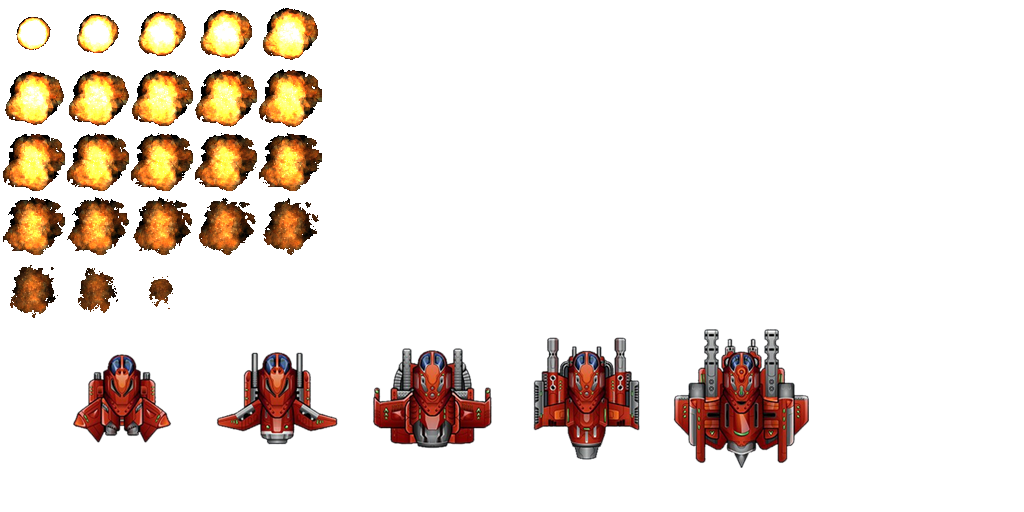
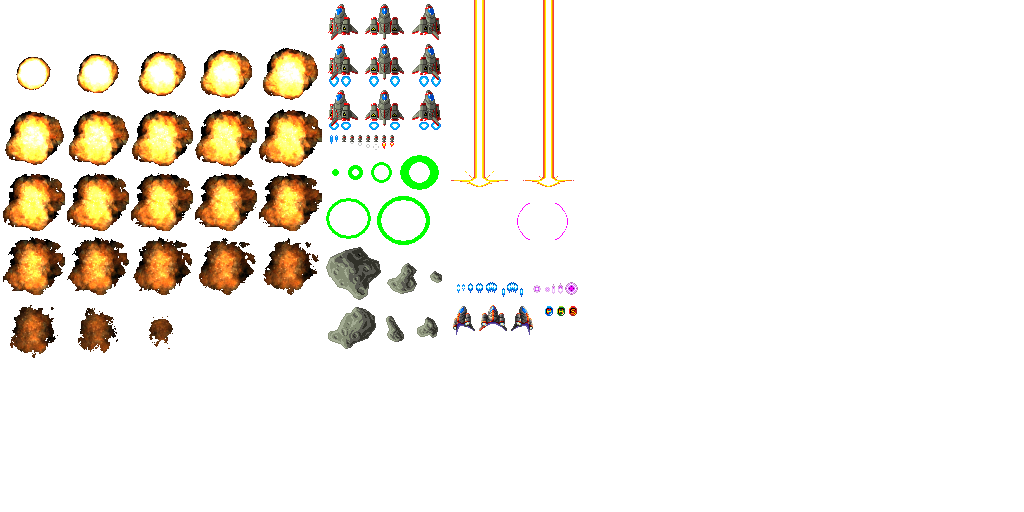
Player Animation Update

diff --git a/core/src/com/mygdx/lifeisagame/Player/Player.java b/core/src/com/mygdx/lifeisagame/Player/Player.java
@@ -20,7 +20,6 @@ public class Player extends Sprite{
 	//Properties
 	private int damage;
 	private int hitpoints; 
-	private int level;
 	private boolean shooting;
 	private boolean damaged;
 	
@@ -32,11 +31,20 @@ public class Player extends Sprite{
 	private Vector2 movingVelocity;
 	
 	//Texture
-	TextureRegion ship_level1;
-	TextureRegion ship_level2;
-	TextureRegion ship_level3;
-	TextureRegion ship_level4;
-	TextureRegion ship_level5;
+	TextureRegion swing_left;
+	TextureRegion boost_left;
+	TextureRegion reverse_left;
+	TextureRegion stop;
+	TextureRegion boost;
+	TextureRegion reverse;
+	TextureRegion swing_right;
+	TextureRegion boost_right;
+	TextureRegion reverse_right;
+	private boolean toRight;
+	private boolean toLeft;
+	private boolean boosting;
+	private boolean reversing;
+	
 	Animation shipDestroyed;
 	
 	//For gameCam glitch in screen
@@ -57,22 +65,25 @@ public class Player extends Sprite{
 	
 	//Animation
 	//State Player
-	public enum State{PLAYER_LEVEL1, PLAYER_LEVEL2, PLAYER_LEVEL3, PLAYER_LEVEL4, PLAYER_LEVEL5, DESTROYED}
+	public enum State{SWING_LEFT, BOOST_LEFT, REVERSE_LEFT, STOP, BOOST, REVERSE, SWING_RIGHT, BOOST_RIGHT, REVERSE_RIGHT, DESTROYED}
 	public State currentState;
 	public State previousState;
 	private float stateTimer;
 	
 	public Player(World world, Vector2 position){
-		super(new AtlasRegion(new TextureAtlas("Player/Player.pack").findRegion("Player")));
+		super(new AtlasRegion(new TextureAtlas("Player/Player.pack").findRegion("Alternative Player")));
 		this.world = world;
 		this.position = position;
 		
 		//Initialization
-		level = 1;
-		
 		camGlitched = false;
 		shooting = false;
 		damaged = false;
+		
+		toRight = false;
+		toLeft = false;
+		boosting = false;
+		reversing = false;
 		
 		moving = false;
 		movingTimer = 0;
@@ -110,16 +121,21 @@ public class Player extends Sprite{
 	}
 	
 	public void generateAnimation() {
-		ship_level1 = new TextureRegion(getTexture(), 71, 351, 102, 96);
-		ship_level2 = new TextureRegion(getTexture(), 215, 350, 123, 97);
-		ship_level3 = new TextureRegion(getTexture(), 369, 343, 126, 108);
-		ship_level4 = new TextureRegion(getTexture(), 532, 335, 110, 128);
-		ship_level5 = new TextureRegion(getTexture(), 672, 327, 140, 143);
+		swing_left = new TextureRegion(getTexture(), 323, 1, 38, 41);
+		boost_left = new TextureRegion(getTexture(), 324, 43, 37, 46);
+		reverse_left = new TextureRegion(getTexture(), 326, 89, 35, 43);
+		stop = new TextureRegion(getTexture(), 362, 0, 46, 41);
+		boost = new TextureRegion(getTexture(), 363, 42, 44, 47);
+		reverse = new TextureRegion(getTexture(), 362, 89, 46, 43);
+		swing_right = new TextureRegion(getTexture(), 409, 0, 38, 41);
+		boost_right = new TextureRegion(getTexture(), 410, 42, 36, 47);
+		reverse_right = new TextureRegion(getTexture(), 409, 88, 37, 44);
+		
 		//65, 29
 		Array<TextureRegion> frames = new Array<TextureRegion>();
 		for(int i=0; i<9; i++) {
 			for(int j=0; j<9; j++) {
-				frames.add(new TextureRegion(getTexture(), i*64, j*64, 64, 64));
+				frames.add(new TextureRegion(getTexture(), i*64, j*64 + 40, 64, 64));
 			}
 		}
 		shipDestroyed = new Animation(0.1f, frames);
@@ -134,27 +150,39 @@ public class Player extends Sprite{
 		case DESTROYED:
 			region = (TextureRegion) shipDestroyed.getKeyFrame(stateTimer, true);
 			break;
-		case PLAYER_LEVEL1:
-			region = ship_level1;
+		case SWING_LEFT:
+			region = swing_left;
 			break;
-		case PLAYER_LEVEL2:
-			region = ship_level2;
+		case BOOST_LEFT:
+			region = boost_left;
 			break;
-		case PLAYER_LEVEL3:
-			region = ship_level3;
+		case REVERSE_LEFT:
+			region = reverse_left;
 			break;
-		case PLAYER_LEVEL4:
-			region = ship_level4;
+		case STOP:
+			region = stop;
 			break;
-		case PLAYER_LEVEL5:
-			region = ship_level5;
+		case BOOST:
+			region = boost;
+			break;
+		case REVERSE:
+			region = reverse;
+			break;
+		case SWING_RIGHT:
+			region = swing_right;
+			break;
+		case BOOST_RIGHT:
+			region = boost_right;
+			break;
+		case REVERSE_RIGHT:
+			region = reverse_right;
 			break;
 			default:
-				region = ship_level1;
+				region = stop;
 				break;
 		}
 		
-		setSize((float) 0.9,(float) 0.9);
+		setSize((float) 1.8,(float) 1.8);
 		stateTimer = currentState == previousState ? stateTimer + dt : 0;
 		previousState = currentState;
 		return region;
@@ -164,24 +192,35 @@ public class Player extends Sprite{
 		if(hitpoints <= 0)
 			return State.DESTROYED;
 		
-		if(level == 1)
-			return State.PLAYER_LEVEL1;
-		else if(level == 2)
-			return State.PLAYER_LEVEL2;
-		else if(level == 3)
-			return State.PLAYER_LEVEL3;
-		else if(level == 4)
-			return State.PLAYER_LEVEL4;
-		else
-			return State.PLAYER_LEVEL5;
+		if(boosting) {
+			if(toLeft)
+				return State.BOOST_LEFT;
+			else if(toRight)
+				return State.BOOST_RIGHT;
+			else
+				return State.BOOST;
+		}
+		else if(reversing) {
+			if(toLeft)
+				return State.REVERSE_LEFT;
+			else if (toRight)
+				return State.REVERSE_RIGHT;
+			else
+				return State.REVERSE;
+		}
+		else {
+			if(toLeft)
+				return State.SWING_LEFT;
+			else if(toRight)
+				return State.SWING_RIGHT;
+			else
+				return State.STOP;
+		}
 	}
 	
 	public void update(float dt) {
 		//Update Timer
 		movingTimer += dt;
-		
-		if(level > 5)
-			level = 5;
 		
 		if(moving)
 			movingVelocity = b2body.getLinearVelocity();
@@ -199,29 +238,34 @@ public class Player extends Sprite{
 			if(Gdx.input.isKeyPressed(Input.Keys.W) || Gdx.input.isKeyPressed(Input.Keys.A) || Gdx.input.isKeyPressed(Input.Keys.S) || Gdx.input.isKeyPressed(Input.Keys.D)) {
 				if(Gdx.input.isKeyPressed(Input.Keys.W) && b2body.getLinearVelocity().y <= limitMovementSpeed && !Gdx.input.isKeyPressed(Input.Keys.S)) {
 					b2body.applyLinearImpulse(new Vector2(0,movementSpeed), b2body.getWorldCenter(), true);
+					boosting = true;
+					reversing = false;
 				}
 				
 				if(Gdx.input.isKeyPressed(Input.Keys.A) && b2body.getLinearVelocity().x >= -limitMovementSpeed && !Gdx.input.isKeyPressed(Input.Keys.D)) {
 					b2body.applyLinearImpulse(new Vector2(-movementSpeed,0), b2body.getWorldCenter(), true);
+					toRight = false;
+					toLeft = true;
 				}
 				
 				if(Gdx.input.isKeyPressed(Input.Keys.S) && b2body.getLinearVelocity().y >= -limitMovementSpeed && !Gdx.input.isKeyPressed(Input.Keys.W)) {
 					b2body.applyLinearImpulse(new Vector2(0,-movementSpeed), b2body.getWorldCenter(), true);
+					reversing = true;
+					boosting = false;
 				}
 				
 				if(Gdx.input.isKeyPressed(Input.Keys.D) && b2body.getLinearVelocity().x <= limitMovementSpeed && !Gdx.input.isKeyPressed(Input.Keys.A)) {
 					b2body.applyLinearImpulse(new Vector2(movementSpeed,0), b2body.getWorldCenter(), true);
+					toRight = true;
+					toLeft = false;
 				}
 				moving = true;
 				movingTimer = 0;
 			}
 			else {
 				moving = false;
-//				if(movingTimer > 0.5f && !moving) {
-//					Vector2 velocity = new Vector2(b2body.getLinearVelocity());
-//					if(velocity.x )
-//					b2body.setLinearVelocity(new Vector2(0,0));
-//				}
+				reversing = false;
+				boosting = false;
 				
 				float velocityX = b2body.getLinearVelocity().x;
 				float velocityY = b2body.getLinearVelocity().y;
@@ -247,18 +291,30 @@ public class Player extends Sprite{
 				
 				b2body.setLinearVelocity(new Vector2(velocityX, velocityY));
 				
-				if(toRight && velocityX < 0)
+				if(toRight && velocityX < 0) {
 					b2body.setLinearVelocity(new Vector2(0,velocityY));
-				else if(!toRight && velocityX > 0)
+					this.toRight = false;
+					this.toLeft = false;
+				}
+				else if(!toRight && velocityX > 0) {
 					b2body.setLinearVelocity(new Vector2(0,velocityY));
-				
-				if(toUp && velocityY < 0)
+					this.toLeft = false;
+					this.toRight = false;
+				}
+									
+				if(toUp && velocityY < 0) {
 					b2body.setLinearVelocity(new Vector2(velocityX,0));
-				else if(!toUp && velocityY > 0)
+					this.boosting = false;
+					this.reversing = false;
+				}
+				else if(!toUp && velocityY > 0) {
 					b2body.setLinearVelocity(new Vector2(velocityX,0));
+					this.boosting = false;
+					this.reversing = false;
+				}
 			}
 		}
-		
+
 //		Gdx.app.log("Player Position", b2body.getPosition().x + " " + b2body.getPosition().y);
 //		Gdx.app.log("Moving Velocity", movingVelocity.x + " " + movingVelocity.y);
 	}

diff --git a/core/src/com/mygdx/lifeisagame/Screens/Map.java b/core/src/com/mygdx/lifeisagame/Screens/Map.java
@@ -45,7 +45,7 @@ public class Map extends Sprite{
 			disposed = true;
 		}
 		
-		Gdx.app.log("Map Position", position.y + " ");
+//		Gdx.app.log("Map Position", position.y + " ");
 	}
 
 	public boolean isDisposed() {
